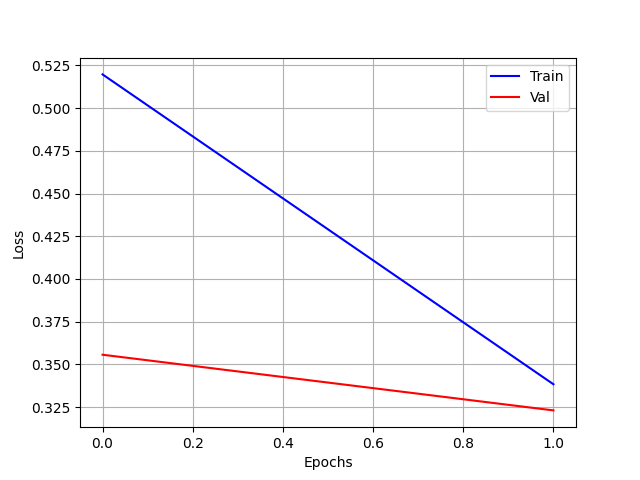
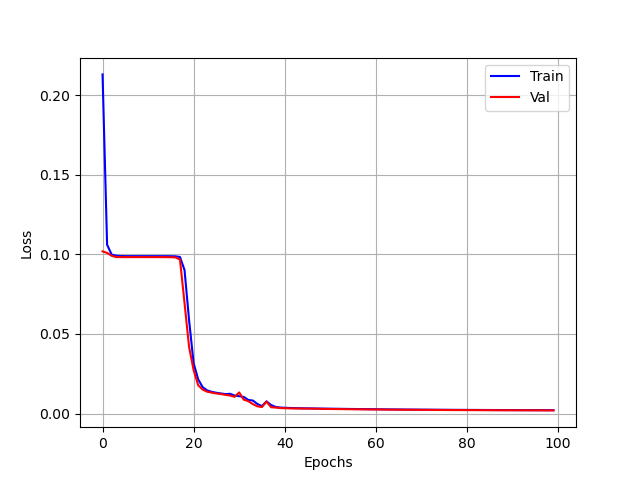
Experiments MG

diff --git a/mg_exp.py b/mg_exp.py
@@ -13,12 +13,14 @@ GAMMA = 0.98
 BATCHSIZE = 256
 LEN_INIT = 0
 LEN_TOTAL = 256 + LEN_INIT
-NUMEPOCHS = 2
+NUMEPOCHS = 100
 PREDICT = 15
 SPLIT = [4096,256,256]
-MODEL = 'LMU'
-base_pth = 'results/MG/'
+MODEL = 'Hybrid'
+base_pth = 'results/mg/'
 
+
+print('Loaded datasets....')
 
 MG = MGDataset('datasets', LEN_TOTAL, PREDICT, SPLIT)
 data = MG.get_dataset() 
@@ -28,16 +30,20 @@ test_data = TensorDataset(data['test'][0],data['test'][1])
 
 train_loader = DataLoader(train_data,batch_size=BATCHSIZE,shuffle=True)
 val_loader = DataLoader(val_data,batch_size=BATCHSIZE,shuffle=True)
-test_loader = DataLoader(test_data,batch_size=BATCHSIZE,shuffle=True)
+test_loader = DataLoader(test_data,batch_size=BATCHSIZE,shuffle=False)
 
-print('Loaded datasets....')
-print('Using Model ',MODEL)
+print('Using Model',MODEL)
+
 if MODEL == 'LSTM':
     model = models.LSTM_general(inp_features=1)
 
 elif MODEL == 'LMU':
     model = models.LMU_general(inp_features=1)
 
+elif MODEL == 'Hybrid':
+    model = models.Hybrid_general()
+
+hidden = model.init_hidden(BATCHSIZE,LEN_TOTAL)
 device = torch.device('cuda:0' if torch.cuda.is_available() else 'cpu')
 print('Running on',device)
 print('Building model..')	
@@ -50,38 +56,35 @@ optimizer = optim.Adam(model.parameters(), lr = LEARNINGRATE)             # OR R
 scheduler = torch.optim.lr_scheduler.ExponentialLR(optimizer, gamma = GAMMA)
 
 min_val_loss = float('inf')
-
 loss_values_train = []
 loss_values_val = []
+epoch_times = []
 
-'''
-def repackage_hidden(h):
-    if isinstance(h, torch.Tensor):
-        return h.detach()
-    else:
-        return tuple(repackage_hidden(v) for v in h)
-'''
 
 for epoch in range(1,NUMEPOCHS+1):
     start_time = time.time()
     
     model.train()
     runloss = 0.0
-    hidden = model.init_hidden(BATCHSIZE,LEN_TOTAL)
 
     for data_input, data_output in train_loader:    
+
         optimizer.zero_grad()
         data_input = data_input.transpose(0,1).transpose(0,2).to(device, dtype=torch.float)  
         data_output = data_output.transpose(0,1).transpose(0,2).to(device, dtype=torch.float)
         
         output, hidden = model(data_input)
-        loss = torch.sqrt(torch.mean(torch.square((output[LEN_INIT:]-data_output[LEN_INIT:])))/torch.mean(torch.square(output[LEN_INIT:])))
-        #loss = criterion(output[LEN_INIT:], data_output[LEN_INIT:])
+        #loss = torch.sqrt(torch.mean(torch.square((output[LEN_INIT:]-data_output[LEN_INIT:])))/torch.mean(torch.square(output[LEN_INIT:])))
+        loss = criterion(output[LEN_INIT:], data_output[LEN_INIT:])
         runloss += loss.item()*BATCHSIZE
 
         loss.backward()
         optimizer.step()
         runloss += loss.item()
+
+    stop_time = time.time()
+    time_el = int(stop_time-start_time)
+    epoch_times.append(time_el)
 
     runloss /= len(train_loader.dataset)
     loss_values_train.append(runloss)
@@ -89,7 +92,6 @@ for epoch in range(1,NUMEPOCHS+1):
     model.eval()
     
     val_loss = 0
-    hidden = model.init_hidden(BATCHSIZE,LEN_TOTAL)
     with torch.no_grad():
         for data_input, data_output in val_loader:
             data_input = data_input.transpose(0,1).transpose(0,2).to(device, dtype=torch.float)
@@ -97,8 +99,8 @@ for epoch in range(1,NUMEPOCHS+1):
 
             output, hidden = model(data_input)
             print(torch.sqrt(torch.mean(torch.square((output[LEN_INIT:]-data_output[LEN_INIT:])))/torch.mean(torch.square(output[LEN_INIT:]))))
-            loss = torch.sqrt(torch.mean(torch.square((output[LEN_INIT:]-data_output[LEN_INIT:])))/torch.mean(torch.square(output[LEN_INIT:])))
-            #loss = criterion(output[LEN_INIT:], data_output[LEN_INIT:])
+            #loss = torch.sqrt(torch.mean(torch.square((output[LEN_INIT:]-data_output[LEN_INIT:])))/torch.mean(torch.square(output[LEN_INIT:])))
+            loss = criterion(output[LEN_INIT:], data_output[LEN_INIT:])
             val_loss += loss.item()*BATCHSIZE
 
     val_loss /= len(val_loader.dataset)
@@ -106,10 +108,7 @@ for epoch in range(1,NUMEPOCHS+1):
 
     if val_loss <= min_val_loss:
         min_val_loss = val_loss
-        torch.save(model.state_dict(), base_pth+MODEL+'_best_val_quicksave.pt')
-    
-    stop_time = time.time()
-    time_el = int(stop_time-start_time)
+        torch.save(model.state_dict(), base_pth+MODEL+'_best_val.pt')
     
     print('epoch [{}/{}], loss:{:.7f}, val loss:{:.7f}, in {}h {}m {}s'.format(epoch, NUMEPOCHS,
                                                                                 runloss, val_loss,                                                                                time_el//3600,
@@ -117,9 +116,12 @@ for epoch in range(1,NUMEPOCHS+1):
                                                                                 time_el%60))
     scheduler.step()
 
+print("------ TRAINING LOOP FINISHED -------")
+print('Mean Epoch Time :',sum(epoch_times)/len(epoch_times))
+
 fig = plt.figure()
-plt.plot(np.array(loss_values_train), 'b')
-plt.plot(np.array(loss_values_val), 'r')
+plt.plot(list(range(len(loss_values_train))),np.array(loss_values_train), 'b')
+plt.plot(list(range(len(loss_values_val))),np.array(loss_values_val), 'r')
 plt.legend(['Train','Val'])
 plt.grid(True)
 plt.xlabel('Epochs')
@@ -133,13 +135,13 @@ with torch.no_grad():
         data_input = data_input.transpose(0,1).transpose(0,2).to(device, dtype=torch.float)
         data_output = data_output.transpose(0,1).transpose(0,2).to(device, dtype=torch.float)
         output, hidden = model(data_input)
-        #hidden = repackage_hidden(hidden)
-        #output, hidden = model(data_input,hidden)
         loss = torch.sqrt(torch.mean(torch.square((output[LEN_INIT:]-data_output[LEN_INIT:])))/torch.mean(torch.square(output[LEN_INIT:])))
         test_loss += loss.item()*BATCHSIZE
+        
+        actual = data_output.cpu().numpy()[:,0,0]
+        predicted = output.cpu().numpy()[:,0,0]
+
 test_loss = test_loss/len(test_loader.dataset)
-print('Test loss ',test_loss)
+print('Test NRMSE :',test_loss)
 
-
-
-np.save(base_pth+MODEL+'_data.npy',(loss_values_train,loss_values_val))
+np.save(base_pth+MODEL+'_data.npy',(loss_values_train,loss_values_val,actual,predicted))

diff --git a/models.py b/models.py
@@ -16,10 +16,8 @@ class LSTM_general(nn.Module):
         self.dropout = nn.Dropout(0.2)
         self.fc1 = nn.Linear(self.size, inp_features)
 
-    def forward(self, x):#, hidden):
-        #self.ht1, self.ct1, self.ht2, self.ct2, self.ht3, self.ct3, self.ht4, self.ct4 = hidden 
+    def forward(self, x):
         self.y = self.y.zero_().detach()
-        
         self.ht1 = self.ht1.zero_().detach()
         self.ht2 = self.ht2.zero_().detach()
         self.ht3 = self.ht3.zero_().detach()
@@ -68,10 +66,8 @@ class LMU_general(nn.Module):
         self.dropout = nn.Dropout(0.2)
         self.fc1 = nn.Linear(self.n, self.inp_features)
 
-    def forward(self, x):#, hidden):
-        #self.ht1, self.ct1, self.ht2, self.ct2, self.ht3, self.ct3, self.ht4, self.ct4 = hidden 
+    def forward(self, x):
         self.y = self.y.zero_().detach()
-        
         self.ht1 = self.ht1.zero_().detach()
         self.ht2 = self.ht2.zero_().detach()
         self.ht3 = self.ht3.zero_().detach()
@@ -102,4 +98,50 @@ class LMU_general(nn.Module):
         self.register_buffer('ct4', torch.zeros(BSIZE,self.d))
         self.register_buffer('y', torch.zeros(LEN,BSIZE,self.inp_features))
 
+        return (self.ht1, self.ct1, self.ht2, self.ct2, self.ht3, self.ct3, self.ht4, self.ct4)
+
+class Hybrid_general(nn.Module):
+    def __init__(self):
+        super(Hybrid_general, self).__init__()
+        
+        self.n = 49
+        self.d = 4
+        self.ln = 25
+        self.lstm_1 = LMU(1,self.n,self.d,4)
+        self.lstm_2 = nn.LSTMCell(self.n,self.ln,True)
+        self.lstm_3 = LMU(self.ln,self.n,self.d,4)
+        self.lstm_4 = nn.LSTMCell(self.n,self.ln,True)
+        self.dropout = nn.Dropout(0.2)
+        self.fc1 = nn.Linear(self.ln, 1)
+
+    def forward(self, x):#, hidden):
+        self.y = self.y.zero_().detach()
+        self.ht1 = self.ht1.zero_().detach()
+        self.ht2 = self.ht2.zero_().detach()
+        self.ht3 = self.ht3.zero_().detach()
+        self.ht4 = self.ht4.zero_().detach()
+        self.ct1 = self.ct1.zero_().detach()
+        self.ct2 = self.ct2.zero_().detach()
+        self.ct3 = self.ct3.zero_().detach()
+        self.ct4 = self.ct4.zero_().detach()
+        
+        for i in range(x.size(0)):
+            self.ht1, self.ct1 = self.lstm_1(x[i],(self.ht1,self.ct1))
+            self.ht2, self.ct2 = self.lstm_2(self.ht1,(self.ht2,self.ct2))
+            self.ht3, self.ct3 = self.lstm_3(self.ht2,(self.ht3,self.ct3))
+            self.ht4, self.ct4 = self.lstm_4(self.ht3,(self.ht4,self.ct4))
+            self.y[i] = self.fc1(self.ht4)
+
+        return self.y, (self.ht1, self.ct1, self.ht2, self.ct2, self.ht3, self.ct3, self.ht4, self.ct4)
+    
+    def init_hidden(self,BSIZE,LEN):
+        self.register_buffer('ht1', torch.zeros(BSIZE,self.n))
+        self.register_buffer('ct1', torch.zeros(BSIZE,self.d))
+        self.register_buffer('ht2', torch.zeros(BSIZE,self.ln))
+        self.register_buffer('ct2', torch.zeros(BSIZE,self.ln))
+        self.register_buffer('ht3', torch.zeros(BSIZE,self.n))
+        self.register_buffer('ct3', torch.zeros(BSIZE,self.d))
+        self.register_buffer('ht4', torch.zeros(BSIZE,self.ln))
+        self.register_buffer('ct4', torch.zeros(BSIZE,self.ln))
+        self.register_buffer('y', torch.zeros(LEN,BSIZE,1))
         return (self.ht1, self.ct1, self.ht2, self.ct2, self.ht3, self.ct3, self.ht4, self.ct4)

diff --git a/dataloaders/mg_generator.py b/dataloaders/mg_generator.py
@@ -45,9 +45,11 @@ class MGDataset:
         else:
             self.x0 = x0
         self.number_of_series=number_of_series
-        if not os.path.exists(os.path.join(self.db_path, 'MG')):
-            os.mkdir(os.path.join(self.db_path, 'MG'))
-        self.pkl_name = os.path.join(self.db_path, 'MG')+'/'+str(seq_len)+'_'+ str(future_predict)+'_'+ ('-').join([str(x) for x in number_of_series])+'.pkl'
+        if not os.path.exists(self.db_path):
+            os.mkdir(self.db_path)
+        if not os.path.exists(os.path.join(self.db_path, 'mg')):
+            os.mkdir(os.path.join(self.db_path, 'mg'))
+        self.pkl_name = os.path.join(self.db_path, 'mg')+'/'+str(seq_len)+'_'+ str(future_predict)+'_'+ ('-').join([str(x) for x in number_of_series])+'.pkl'
         print(self.pkl_name)
     
     def get_dataset(self):
